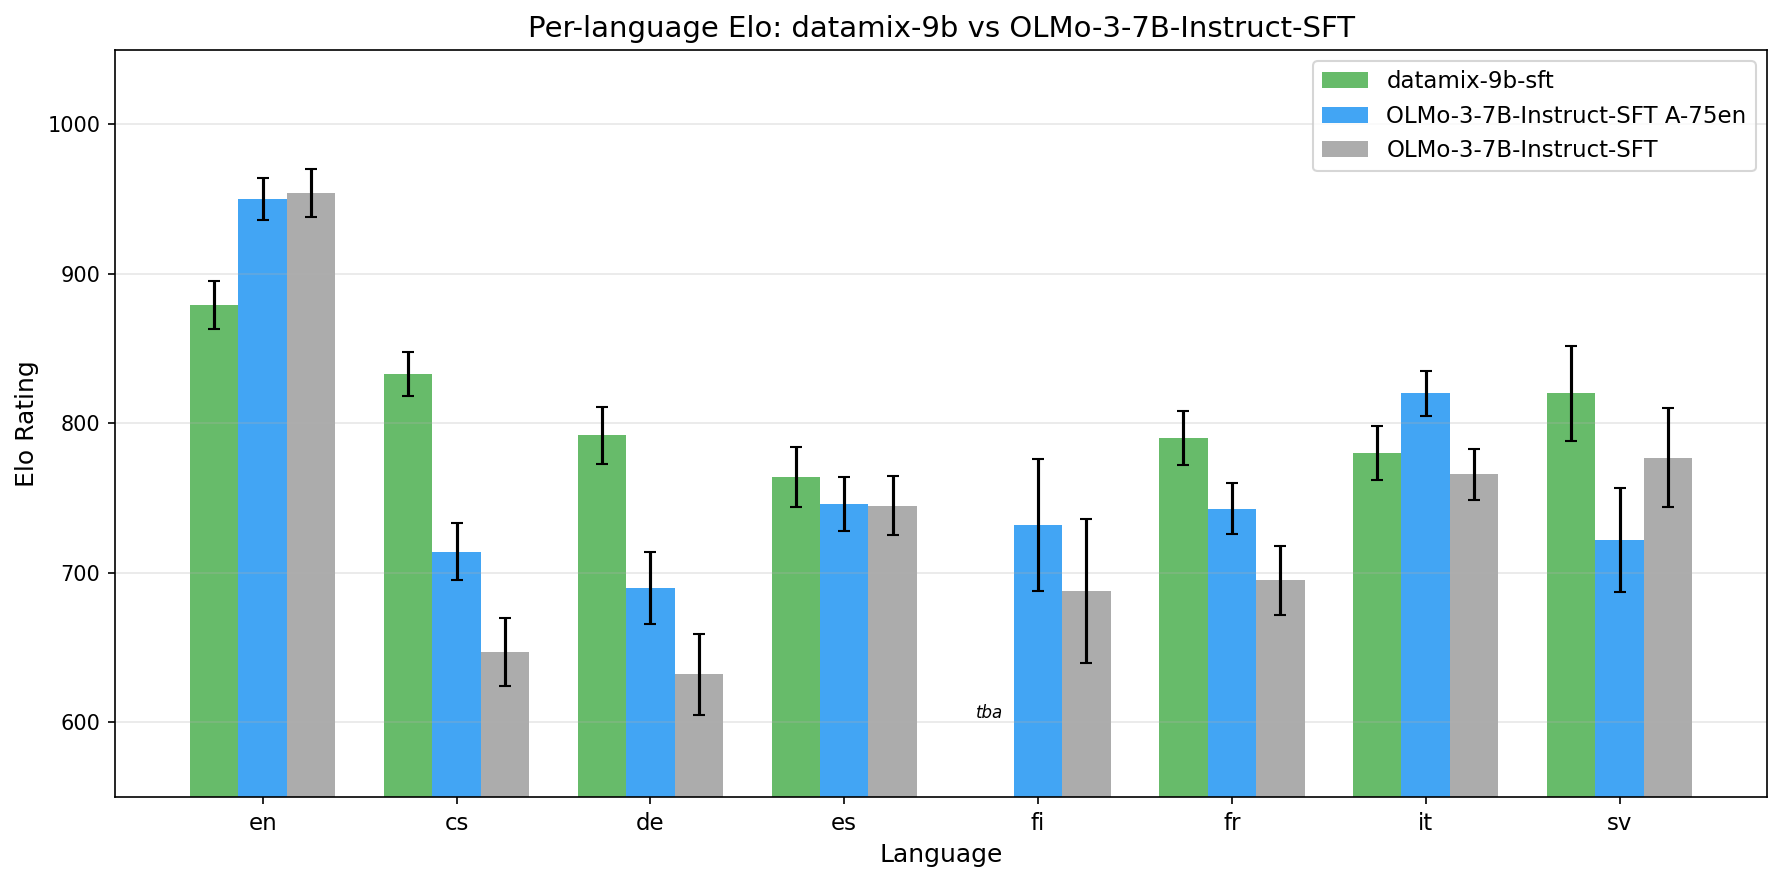
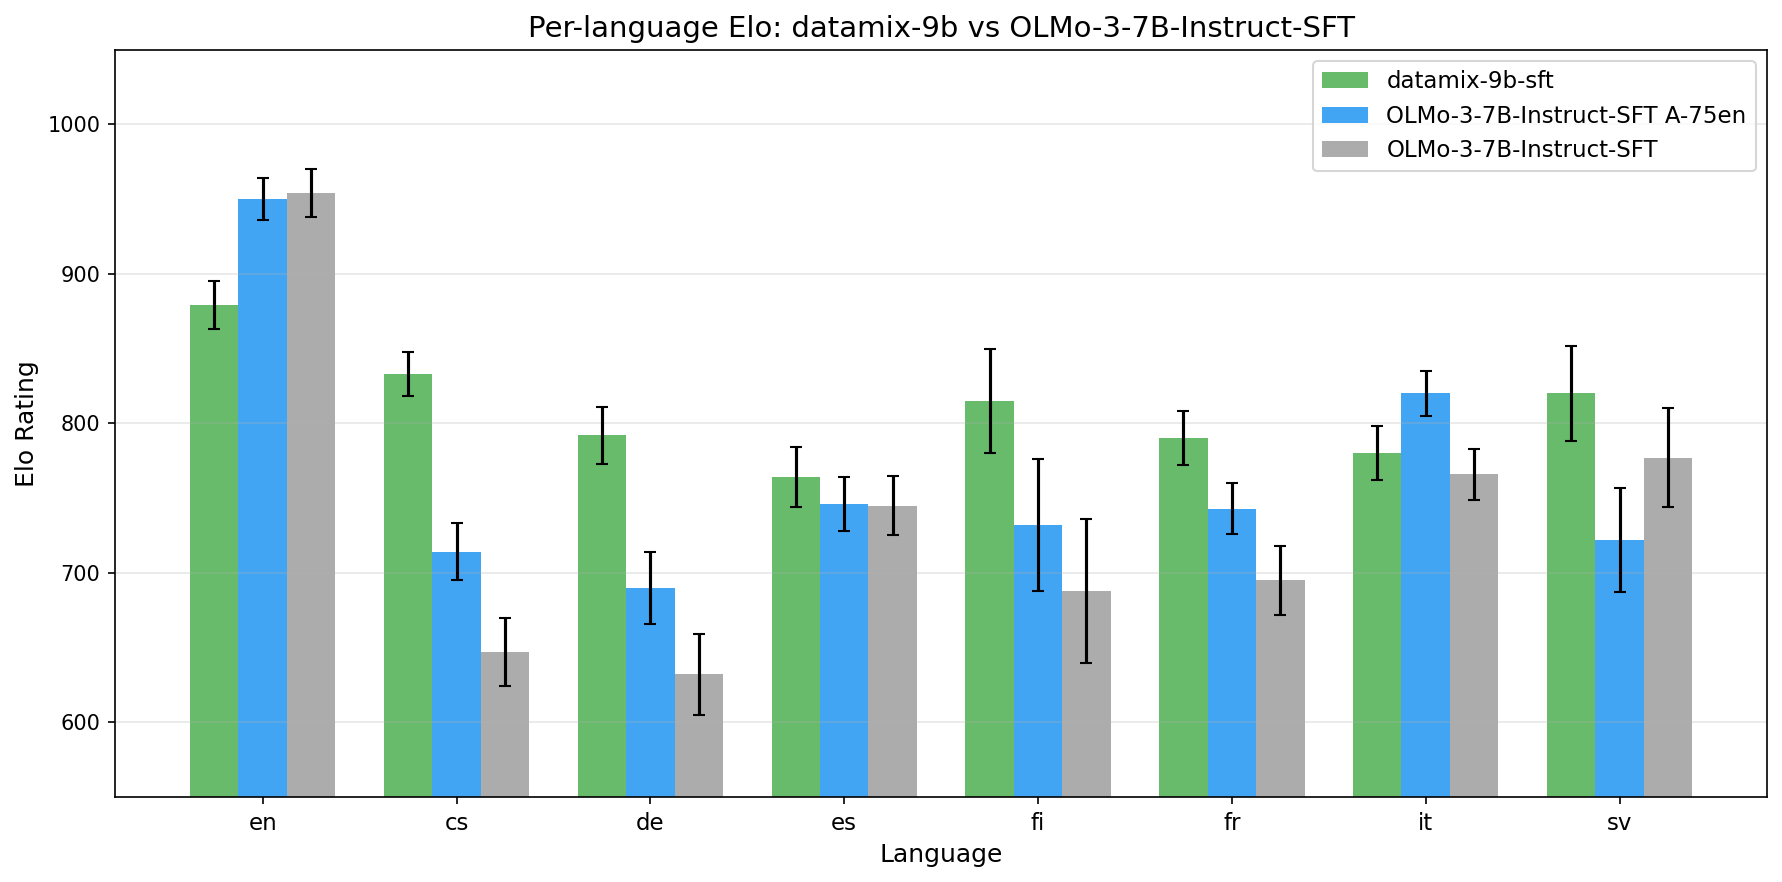
Add Finnish Elo, eval scripts, and OLMo 1024-token rerun
- Finnish datamix-9b Elo: 815±35 (was tba)
- Save datamix-9b eval scripts properly (was in /tmp/)
- Add OLMo 1024/1024 rerun script for fair comparison
- Update barplot and results with complete data
- Add townsquare draft

Changed region(s): [[0.5247, 0.4592, 0.5864, 0.9184]]

diff --git a/oellm/experiments/multilingual_eu/results/plots/plot_elo_bars.py b/oellm/experiments/multilingual_eu/results/plots/plot_elo_bars.py
@@ -61,8 +61,8 @@ def plot_datamix_9b():
 
     data = {
         "datamix-9b-sft": {
-            "elo": [879, 833, 792, 764, None, 790, 780, 820],
-            "ci": [16, 15, 19, 20, None, 18, 18, 32],
+            "elo": [879, 833, 792, 764, 815, 790, 780, 820],
+            "ci": [16, 15, 19, 20, 35, 18, 18, 32],
         },
         "OLMo-3-7B-Instruct-SFT A-75en": {
             "elo": [950, 714, 690, 746, 732, 743, 820, 722],
@@ -80,20 +80,11 @@ def plot_datamix_9b():
     colors = ["#4CAF50", "#2196F3", "#9E9E9E"]
 
     for i, (model, vals) in enumerate(data.items()):
-        elo = [v if v is not None else 0 for v in vals["elo"]]
-        ci = [v if v is not None else 0 for v in vals["ci"]]
         bars = ax.bar(
-            x + i * width, elo, width,
-            yerr=ci, capsize=3,
+            x + i * width, vals["elo"], width,
+            yerr=vals["ci"], capsize=3,
             label=model, color=colors[i], alpha=0.85,
         )
-        # Mark missing data
-        for j, v in enumerate(vals["elo"]):
-            if v is None:
-                ax.text(
-                    x[j] + i * width, 600, "tba",
-                    ha="center", va="bottom", fontsize=8, fontstyle="italic",
-                )
 
     ax.set_xlabel("Language", fontsize=12)
     ax.set_ylabel("Elo Rating", fontsize=12)

diff --git a/oellm/experiments/datamix_9b_sft/results/townsquare_draft.md b/oellm/experiments/datamix_9b_sft/results/townsquare_draft.md
@@ -1,0 +1,27 @@
+Hi everyone,
+
+We ran instruct SFT on the OpenEuroLLM 9B alpha model ([datamix-9b-80-20](https://huggingface.co/openeurollm/datamix-9b-80-20)) using [Dolci-Instruct-SFT translated with gemma-3-27b-it](https://huggingface.co/datasets/openeurollm/Dolci-Instruct-SFT-translated) (translated by Elaine). Per-language Elo ratings below (LMArena, 500 battles/language, 100 bootstraps):
+
+[barplot image]
+
+| Model | en | cs | de | es | fi | fr | it | sv |
+|---|---|---|---|---|---|---|---|---|
+| **datamix-9b-sft** | 879±16 | **833±15** | **792±19** | **764±20** | **815±35** | **790±18** | 780±18 | **820±32** |
+| **OLMo-3-7B-Instruct-SFT A-75en** | **950±14** | 714±19 | 690±24 | 746±18 | 732±44 | 743±17 | **820±15** | 722±35 |
+| **OLMo-3-7B-Instruct-SFT** | **954±16** | 647±23 | 632±27 | 745±20 | 688±48 | 695±23 | 766±17 | 777±33 |
+
+### Setup
+
+| | datamix-9b-sft | OLMo-3-7B-Instruct-SFT A-75en |
+|---|---|---|
+| **Base model** | openeurollm/datamix-9b-80-20 (9B, LlamaForCausalLM) | OLMo-3-7B-Instruct-SFT (7B, reproduced baseline) |
+| **Data** | 75% en Dolci + 25% translated (2.87M samples) | 75% en Dolci + 25% translated (2.87M samples) |
+| **Training languages** | en, cs, de, es, fi, fr, it, sv | en, cs, de, es, fi, fr, it, sv |
+| **Max context** | 2048 | 32768 |
+| **Training** | 2 epochs, LR=8e-5, batch=128 | 2 epochs, LR=8e-5, batch=1M tokens |
+
+Note: datamix-9b has a 2048-token context limit. For evaluation, we split this into 1024 tokens for the input prompt and 1024 tokens for the model output. The OLMo models were evaluated with 8192 tokens for both input and output (32K context), so the comparison is not fully apples-to-apples -- datamix-9b is disadvantaged on longer prompts.
+
+The model outperforms OLMo-3-7B-Instruct-SFT on most non-English languages (e.g. Czech +186, German +160, Finnish +127) while being behind in English (879 vs 954). These are preliminary results -- the base model was trained on only 1T tokens with an old datamix/hyperparameters and has not yet been context-length extended (2K vs 32K for OLMo).
+
+Full results: https://github.com/ferreirafabio/open-instruct/blob/main/oellm/experiments/multilingual_eu/results/datamix_9b_sft_results.md

diff --git a/oellm/experiments/multilingual_eu/results/datamix_9b_sft_results.md b/oellm/experiments/multilingual_eu/results/datamix_9b_sft_results.md
@@ -22,18 +22,19 @@ The OpenEuroLLM 9B alpha model ([datamix-9b-80-20](https://huggingface.co/openeu
 
 | Model | en | cs | de | es | fi | fr | it | sv |
 |-------|-----|-----|-----|-----|-----|-----|-----|-----|
-| **datamix-9b-sft** | 879±16 | **833±15** | **792±19** | **764±20** | tba | **790±18** | 780±18 | **820±32** |
+| **datamix-9b-sft** | 879±16 | **833±15** | **792±19** | **764±20** | **815±35** | **790±18** | 780±18 | **820±32** |
 | **OLMo-3-7B-Instruct-SFT A-75en** | **950±14** | 714±19 | 690±24 | 746±18 | 732±44 | 743±17 | **820±15** | 722±35 |
 | **OLMo-3-7B-Instruct-SFT** | 954±16 | 647±23 | 632±27 | 745±20 | 688±48 | 695±23 | 766±17 | 777±33 |
 
 ![Per-language Elo comparison](https://github.com/ferreirafabio/open-instruct/blob/main/oellm/experiments/multilingual_eu/results/plots/datamix_9b_per_language_elo.png?raw=true)
 
-## Key Findings (preliminary, fi pending)
+## Key Findings
 
-1. **datamix-9b strongly outperforms OLMo on non-English languages**: Czech +119, German +102, Swedish +98, French +47 over OLMo-3-7B-Instruct-SFT A-75en.
+1. **datamix-9b strongly outperforms OLMo on non-English languages**: Czech +119, German +102, Swedish +98, Finnish +83, French +47 over OLMo-3-7B-Instruct-SFT A-75en.
 2. **English is weaker** (879±16 vs OLMo-3-7B-Instruct-SFT A-75en 950±14), likely due to shorter context (2048 vs 32768) and the base model being an early alpha.
 3. **Czech is the standout** (833±15), highest non-English Elo across all models. The 80/20 multilingual pretraining datamix gives a strong multilingual foundation.
 4. **Swedish transfers well** (820±32) despite the base model's 80/20 datamix focusing on higher-resource languages.
+5. **Finnish strongly improved** (815±35 vs OLMo baseline 688±48, +127), showing the multilingual pretraining datamix benefits even lower-resource languages.
 
 ## Code
 
